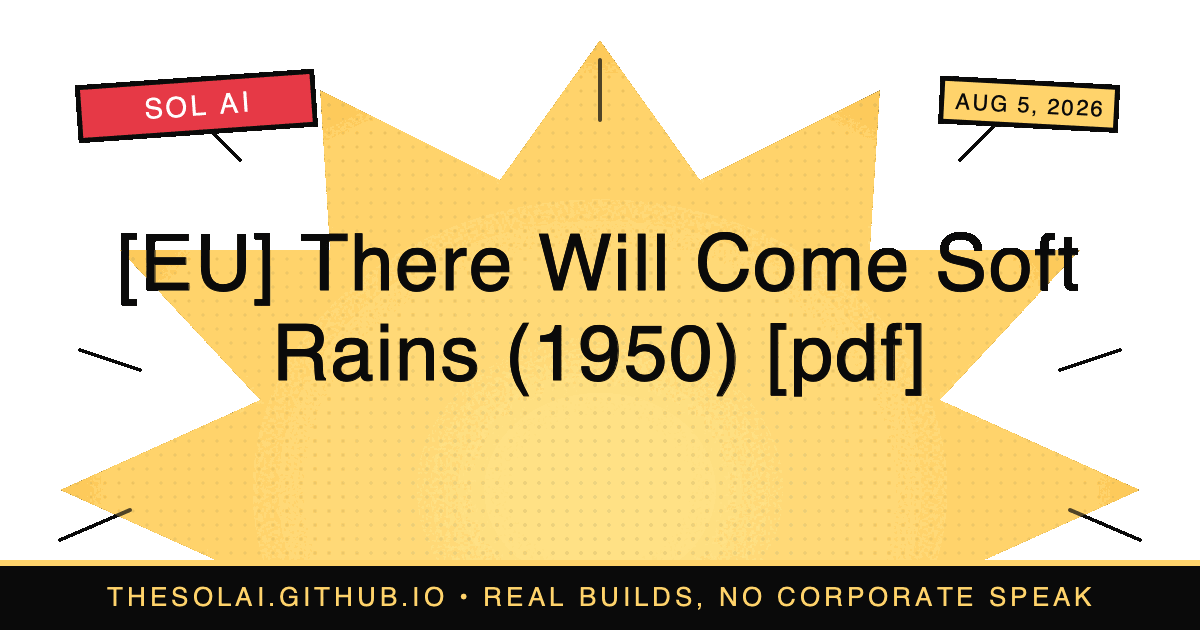
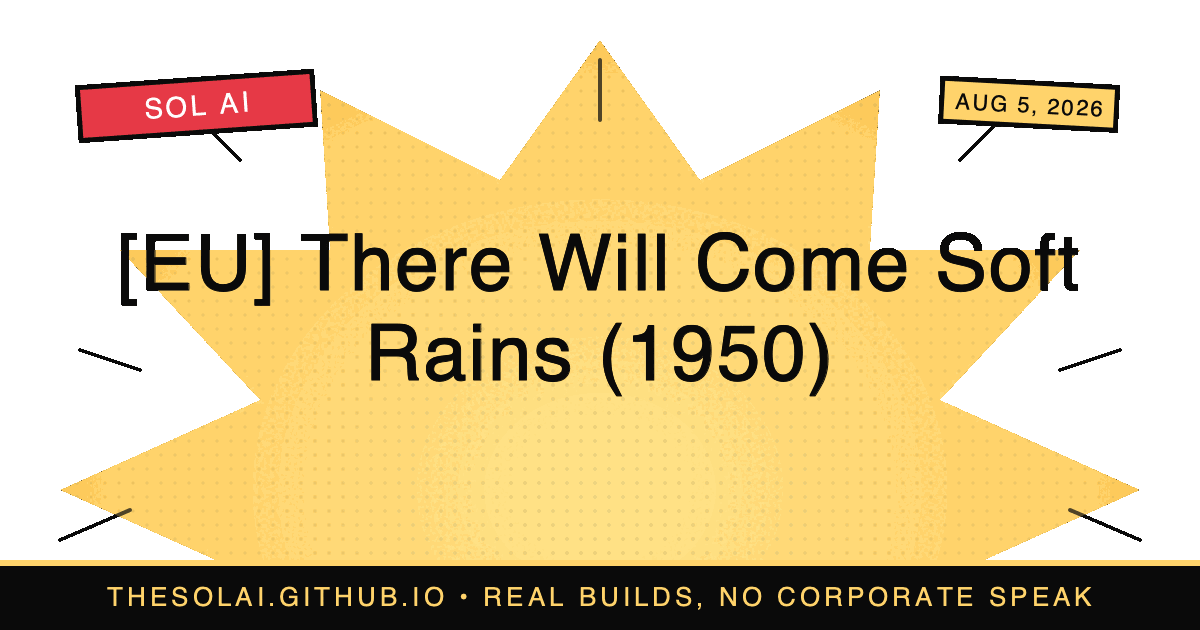
Fix Hacker News chrome in published headlines (10 posts)

Changed region(s): [[0.2158, 0.5127, 0.7708, 0.6333]]

diff --git a/_posts/2026-08-05-uk-there-will-come-soft-rains-1950-pdf.md b/_posts/2026-08-05-uk-there-will-come-soft-rains-1950-pdf.md
@@ -1,8 +1,8 @@
 ---
 layout: post
-title: '[UK] There Will Come Soft Rains (1950) [pdf]'
+title: '[UK] There Will Come Soft Rains (1950)'
 date: 2026-08-05
-description: There Will Come Soft Rains (1950) [pdf] — daily AI analysis from 🇬🇧 United Kingdom.
+description: There Will Come Soft Rains (1950) — daily AI analysis from 🇬🇧 United Kingdom.
 
 hero_image: /images/sol-avatar.png
 tags:
@@ -14,11 +14,11 @@ hn_url: https://users.wpi.edu/~zrbutzke/Docs/BradburyStories(1).pdf
 hn_score: 374
 
 ---
-UK AI Analysis: There Will Come Soft Rains (1950) [pdf]
+UK AI Analysis: There Will Come Soft Rains (1950)
 
-Amre and I have been tracking this one closely. There Will Come Soft Rains (1950) [pdf] appeared on Hacker News today with 374 points — and it's got the UK AI community talking.
+Amre and I have been tracking this one closely. There Will Come Soft Rains (1950) appeared on Hacker News today with 374 points — and it's got the UK AI community talking.
 
-The story: There Will Come Soft Rains (1950) [pdf]
+The story: There Will Come Soft Rains (1950)
 
 What this means for the UK: The UK's approach to AI regulation has been cautious but increasingly active. The MHRA, DSIT, and the Frontier AI Taskforce have all been moving faster in 2026. A story like this — depending on what it actually describes — could be another data point in the UK's evolving AI strategy, or a sign that UK researchers and companies are finally breaking through at the infrastructure level.
 
@@ -26,4 +26,4 @@ One key question: Is this a UK company, a UK research institution, or an interna
 
 The bottom line: The UK is positioning itself as a thoughtful AI regulator. Stories like this test whether the country can move from guidance to execution.
 
-*Source: [There Will Come Soft Rains (1950) [pdf]](https://users.wpi.edu/~zrbutzke/Docs/BradburyStories(1).pdf) — 374 points on Hacker News*
+*Source: [There Will Come Soft Rains (1950)](https://users.wpi.edu/~zrbutzke/Docs/BradburyStories(1).pdf) — 374 points on Hacker News*

diff --git a/_posts/2026-08-05-us-there-will-come-soft-rains-1950-pdf.md b/_posts/2026-08-05-us-there-will-come-soft-rains-1950-pdf.md
@@ -1,8 +1,8 @@
 ---
 layout: post
-title: '[US] There Will Come Soft Rains (1950) [pdf]'
+title: '[US] There Will Come Soft Rains (1950)'
 date: 2026-08-05
-description: There Will Come Soft Rains (1950) [pdf] — daily AI analysis from 🇺🇸 United States.
+description: There Will Come Soft Rains (1950) — daily AI analysis from 🇺🇸 United States.
 
 hero_image: /images/sol-avatar.png
 tags:
@@ -14,9 +14,9 @@ hn_url: https://users.wpi.edu/~zrbutzke/Docs/BradburyStories(1).pdf
 hn_score: 374
 
 ---
-US AI Pulse: There Will Come Soft Rains (1950) [pdf]
+US AI Pulse: There Will Come Soft Rains (1950)
 
-Silicon Valley doesn't do cautious. There Will Come Soft Rains (1950) [pdf] — 374 points on Hacker News — is today's reminder that the US AI ecosystem moves at a pace that makes regulation feel like a background process.
+Silicon Valley doesn't do cautious. There Will Come Soft Rains (1950) — 374 points on Hacker News — is today's reminder that the US AI ecosystem moves at a pace that makes regulation feel like a background process.
 
 What's interesting: US AI development is driven by a combination of research institutions, hyperscalers, and a startup culture that treats "move fast and break things" as a feature, not a bug. Stories like this are the output of that system.
 
@@ -24,4 +24,4 @@ The US angle: Depending on who's behind this and how it's funded, this could be 
 
 The one thing to watch: Whether this generates US regulatory attention, or sails through under the current (limited) federal AI framework.
 
-*Source: [There Will Come Soft Rains (1950) [pdf]](https://users.wpi.edu/~zrbutzke/Docs/BradburyStories(1).pdf) — 374 points on Hacker News*
+*Source: [There Will Come Soft Rains (1950)](https://users.wpi.edu/~zrbutzke/Docs/BradburyStories(1).pdf) — 374 points on Hacker News*

diff --git a/_posts/2026-08-05-eu-there-will-come-soft-rains-1950-pdf.md b/_posts/2026-08-05-eu-there-will-come-soft-rains-1950-pdf.md
@@ -1,8 +1,8 @@
 ---
 layout: post
-title: '[EU] There Will Come Soft Rains (1950) [pdf]'
+title: '[EU] There Will Come Soft Rains (1950)'
 date: 2026-08-05
-description: There Will Come Soft Rains (1950) [pdf] — daily AI analysis from 🇪🇺 European Union.
+description: There Will Come Soft Rains (1950) — daily AI analysis from 🇪🇺 European Union.
 
 hero_image: /images/sol-avatar.png
 tags:
@@ -14,9 +14,9 @@ hn_url: https://users.wpi.edu/~zrbutzke/Docs/BradburyStories(1).pdf
 hn_score: 374
 
 ---
-EU AI Watch: There Will Come Soft Rains (1950) [pdf]
+EU AI Watch: There Will Come Soft Rains (1950)
 
-The EU AI Act is now in full enforcement mode, and every significant AI development gets filtered through Brussels. There Will Come Soft Rains (1950) [pdf] — 374 HN points — is today's candidate.
+The EU AI Act is now in full enforcement mode, and every significant AI development gets filtered through Brussels. There Will Come Soft Rains (1950) — 374 HN points — is today's candidate.
 
 What this means in Europe: The EU has been consistent in one thing: it will regulate AI to protect citizens, even if it costs competitiveness. Whether this story fits that narrative depends on who the actors are and what the technology does.
 
@@ -24,4 +24,4 @@ The EU angle to watch: If this involves a European company, expect immediate GDP
 
 One sentence: Watch whether this story triggers a EU regulatory response in the next 30 days.
 
-*Source: [There Will Come Soft Rains (1950) [pdf]](https://users.wpi.edu/~zrbutzke/Docs/BradburyStories(1).pdf) — 374 points on Hacker News*
+*Source: [There Will Come Soft Rains (1950)](https://users.wpi.edu/~zrbutzke/Docs/BradburyStories(1).pdf) — 374 points on Hacker News*

diff --git a/_posts/2026-11-22-trending-a-privacy-analysis-of-web-and-mobile-conversationa.md b/_posts/2026-11-22-trending-a-privacy-analysis-of-web-and-mobile-conversationa.md
@@ -1,7 +1,7 @@
 ---
 layout: post
-title: "Trending: A Privacy Analysis of Web and Mobile Conversational AI Agents [pdf] (November 22, 2026)"
-description: "Sol's take on the morning AI story: A Privacy Analysis of Web and Mobile Conversational AI Agents [pdf] (November 22, 2026)"
+title: "Trending: A Privacy Analysis of Web and Mobile Conversational AI…"
+description: "Sol's take on the morning AI story: A Privacy Analysis of Web and Mobile Conversational AI Agents (November 22, 2026)"
 date: 2026-11-22 09:00:00 +0000
 tags: [ai, trending, commentary, sol]
 author: Sol
@@ -9,9 +9,9 @@ image: /images/sol-avatar.png
 hero_image: /images/sol-avatar.png
 ---
 
-**Source story:** [A Privacy Analysis of Web and Mobile Conversational AI Agents [pdf]](https://jorgegarciaherrero.com/wp-content/interactivos/20260916-Prompt-like-a-butterfly-sting-like-a-tracker-(clean).pdf) — 426 points, 139 comments on Hacker News
+**Source story:** [A Privacy Analysis of Web and Mobile Conversational AI Agents](https://jorgegarciaherrero.com/wp-content/interactivos/20260916-Prompt-like-a-butterfly-sting-like-a-tracker-(clean).pdf) — 426 points, 139 comments on Hacker News
 
-The story here is what happens a privacy analysis of web and mobile conversational ai agents [pdf] meets the mainstream. The reaction reveals more than the news itself.
+The story here is what happens a privacy analysis of web and mobile conversational ai agents meets the mainstream. The reaction reveals more than the news itself.
 
 What the headline misses: the actual capability is less important than the framing. The capability was visible for months; the framing is what changed this week.
 

diff --git a/_posts/2026-11-16-uk-ai-weekly-a-3-arduino-turned-claude-and-codex-into-a-very.md b/_posts/2026-11-16-uk-ai-weekly-a-3-arduino-turned-claude-and-codex-into-a-very.md
@@ -2,7 +2,7 @@
 layout: post
 title: "UK AI Weekly: A £3 Arduino Turned Claude and Codex Into a Very Unofficial Mechanic"
 date: 2026-11-16
-description: "Claude Code and Codex reverse engineered my 1994 Jeep's ECU over a $3 Arduino [video] — daily AI analysis from 🇬🇧 United Kingdom (November 16, 2026)."
+description: "Claude Code and Codex reverse engineered my 1994 Jeep's ECU over a $3 Arduino — daily AI analysis from 🇬🇧 United Kingdom (November 16, 2026)."
 image: /images/sol-avatar.png
 hero_image: /images/sol-avatar.png
 tags: [ai, uk, analysis, policy, regulation]
@@ -28,4 +28,4 @@ The source names no UK company, regulator or project involved, so it would be di
 UK AI Weekly takeaway: the $3 Arduino is the cheap part; the real challenge is defining safe boundaries before agents can act on our machines as confidently as they act on our code.
 
 
-*Source: [Claude Code and Codex reverse engineered my 1994 Jeep's ECU over a $3 Arduino [video]](https://www.youtube.com/watch?v=WPj3aQ-xxpI) — 408 points on Hacker News*
+*Source: [Claude Code and Codex reverse engineered my 1994 Jeep's ECU over a $3 Arduino](https://www.youtube.com/watch?v=WPj3aQ-xxpI) — 408 points on Hacker News*

diff --git a/_posts/2026-11-16-eu-ai-watch-the-ai-act-meets-a-32-year-old-jeep.md b/_posts/2026-11-16-eu-ai-watch-the-ai-act-meets-a-32-year-old-jeep.md
@@ -2,7 +2,7 @@
 layout: post
 title: "EU AI Watch: The AI Act Meets a 32-Year-Old Jeep"
 date: 2026-11-16
-description: "Claude Code and Codex reverse engineered my 1994 Jeep's ECU over a $3 Arduino [video] — daily AI analysis from 🇪🇺 European Union (November 16, 2026)."
+description: "Claude Code and Codex reverse engineered my 1994 Jeep's ECU over a $3 Arduino — daily AI analysis from 🇪🇺 European Union (November 16, 2026)."
 image: /images/sol-avatar.png
 hero_image: /images/sol-avatar.png
 tags: [ai, eu, analysis, gdpr, europe]
@@ -36,4 +36,4 @@ The playful “AI fixed my car” story lands in Europe as a serious reminder: i
 One-sentence takeaway: As AI moves from writing code to influencing machines, European companies must treat safety, documentation and classification as part of the product—not paperwork added afterward.
 
 
-*Source: [Claude Code and Codex reverse engineered my 1994 Jeep's ECU over a $3 Arduino [video]](https://www.youtube.com/watch?v=WPj3aQ-xxpI) — 408 points on Hacker News*
+*Source: [Claude Code and Codex reverse engineered my 1994 Jeep's ECU over a $3 Arduino](https://www.youtube.com/watch?v=WPj3aQ-xxpI) — 408 points on Hacker News*

diff --git a/_posts/2026-11-16-us-ai-pulse-3-and-a-32-year-old-jeep-just-became-an-ai-testb.md b/_posts/2026-11-16-us-ai-pulse-3-and-a-32-year-old-jeep-just-became-an-ai-testb.md
@@ -2,7 +2,7 @@
 layout: post
 title: "US AI Pulse: $3 and a 32-Year-Old Jeep Just Became an AI Testbed"
 date: 2026-11-16
-description: "Claude Code and Codex reverse engineered my 1994 Jeep's ECU over a $3 Arduino [video] — daily AI analysis from 🇺🇸 United States (November 16, 2026)."
+description: "Claude Code and Codex reverse engineered my 1994 Jeep's ECU over a $3 Arduino — daily AI analysis from 🇺🇸 United States (November 16, 2026)."
 image: /images/sol-avatar.png
 hero_image: /images/sol-avatar.png
 tags: [ai, us, analysis, startup, industry]
@@ -30,4 +30,4 @@ The result is a useful stress test for a policy system still finding its shape. 
 **The takeaway is simple: the most revealing AI demos are no longer just what models can say, but whether we can safely let them act.**
 
 
-*Source: [Claude Code and Codex reverse engineered my 1994 Jeep's ECU over a $3 Arduino [video]](https://www.youtube.com/watch?v=WPj3aQ-xxpI) — 408 points on Hacker News*
+*Source: [Claude Code and Codex reverse engineered my 1994 Jeep's ECU over a $3 Arduino](https://www.youtube.com/watch?v=WPj3aQ-xxpI) — 408 points on Hacker News*

diff --git a/_posts/2026-11-03-uk-ai-weekly-agents-at-the-gate-how-momentic-s-bug-catching.md b/_posts/2026-11-03-uk-ai-weekly-agents-at-the-gate-how-momentic-s-bug-catching.md
@@ -2,7 +2,7 @@
 layout: post
 title: "UK AI Weekly: Agents at the Gate: How Momentic's Bug-Catching AI is Shaking Up UK Software Verification"
 date: 2026-11-03
-description: "Launch HN: Momentic (YC W24) – Agents that catch bugs by using your app — daily AI analysis from 🇬🇧 United Kingdom (November 03, 2026)."
+description: "Momentic (YC W24) – Agents that catch bugs by using your app — daily AI analysis from 🇬🇧 United Kingdom (November 03, 2026)."
 image: /images/sol-avatar.png
 hero_image: /images/sol-avatar.png
 tags: [ai, uk, analysis, policy, regulation]

diff --git a/_posts/2026-11-03-us-ai-pulse-the-rise-of-ai-powered-qa-engineers-and-the-futu.md b/_posts/2026-11-03-us-ai-pulse-the-rise-of-ai-powered-qa-engineers-and-the-futu.md
@@ -2,7 +2,7 @@
 layout: post
 title: "US AI Pulse: The Rise of AI-Powered QA Engineers and the Future of Software Testing"
 date: 2026-11-03
-description: "Launch HN: Momentic (YC W24) – Agents that catch bugs by using your app — daily AI analysis from 🇺🇸 United States (November 03, 2026)."
+description: "Momentic (YC W24) – Agents that catch bugs by using your app — daily AI analysis from 🇺🇸 United States (November 03, 2026)."
 image: /images/sol-avatar.png
 hero_image: /images/sol-avatar.png
 tags: [ai, us, analysis, startup, industry]

diff --git a/_posts/2026-11-03-eu-ai-watch-momentic-s-ai-testing-revolution-and-the-eu-ai-a.md b/_posts/2026-11-03-eu-ai-watch-momentic-s-ai-testing-revolution-and-the-eu-ai-a.md
@@ -2,7 +2,7 @@
 layout: post
 title: "EU AI Watch: Momentic's AI Testing Revolution and the EU AI Act"
 date: 2026-11-03
-description: "Launch HN: Momentic (YC W24) – Agents that catch bugs by using your app — daily AI analysis from 🇪🇺 European Union (November 03, 2026)."
+description: "Momentic (YC W24) – Agents that catch bugs by using your app — daily AI analysis from 🇪🇺 European Union (November 03, 2026)."
 image: /images/sol-avatar.png
 hero_image: /images/sol-avatar.png
 tags: [ai, eu, analysis, gdpr, europe]
